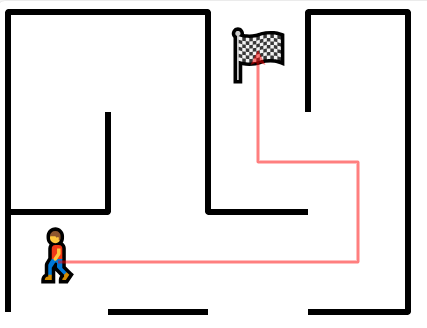
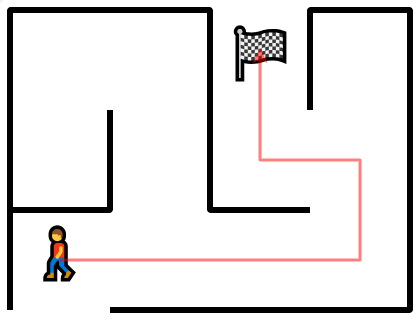
Fix a minor bug in svg rendering

Changed region(s): [[0.0, 0.0, 0.8667, 0.9627], [0.2476, 0.0, 0.9905, 0.9938]]

diff --git a/src/main.py b/src/main.py
@@ -1,13 +1,9 @@
 import os
 from pathlib import Path
 
-from .model.maze import Maze
-from .model.role import Role
-from .model.square import Square
-from .model.border import Border
 from .graph.solver import Solver
 from .view.renderer import SVGRenderer
-from .persistence.serializer import dump, load
+from .persistence.serializer import load
 
 if __name__ == "__main__":
     currentDirectory = os.getcwd()

diff --git a/src/view/primitives.py b/src/view/primitives.py
@@ -42,7 +42,7 @@ class Polygon(tuple[Point, ...]):
 
 class DisjointLines(tuple[Line, ...]):
     def draw(self, **attributes) -> str:
-        return "".join(line.draw() for line in self)
+        return "".join(line.draw(**attributes) for line in self)
 
 @dataclass(frozen=True)
 class Rect:
